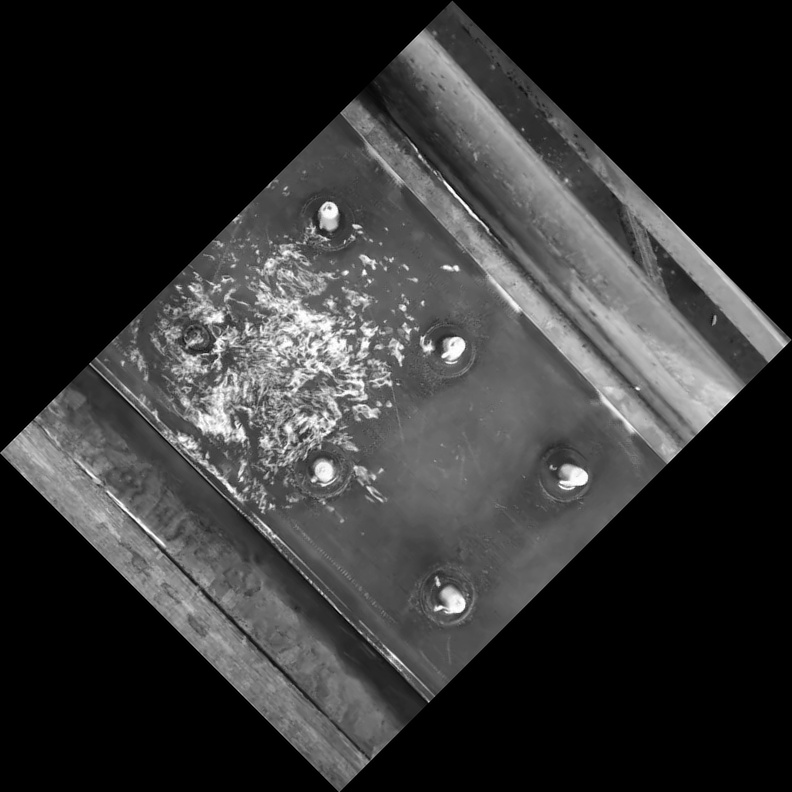
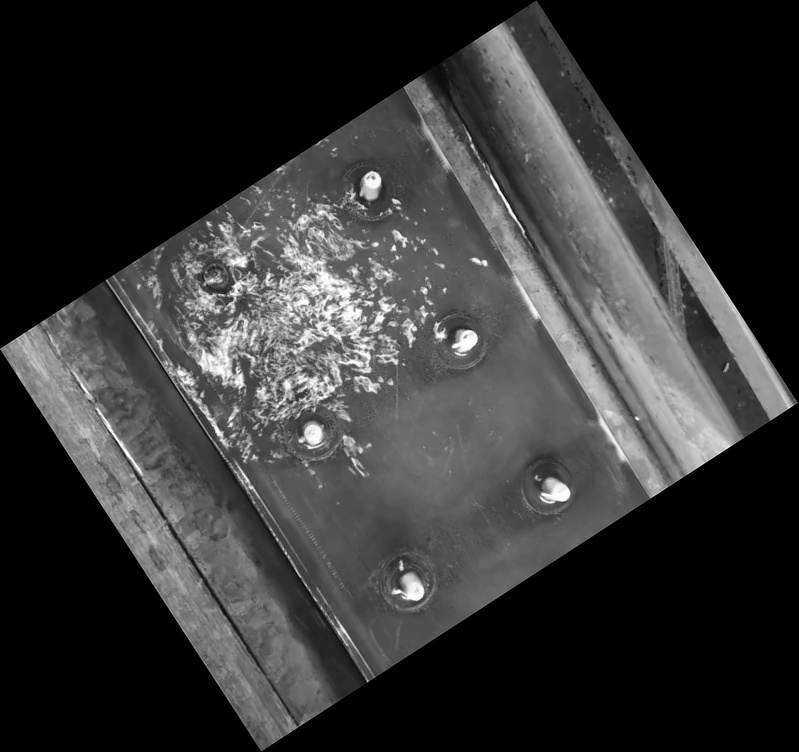
Firt verking version where we can filter out thet detections where  the haar rectangle out of the image

diff --git a/haar_cascade/test_cascade.py b/haar_cascade/test_cascade.py
@@ -2,17 +2,22 @@ from moviepy.editor import *
 import cv2
 import numpy as np
 import json
+import math
+
+from Rectangle import Rectangle
+
+from is_rectangle_on_original_image import is_rectangle_on_original_image
 
 
 # PARAMS
 with open('config/config-local.json') as json_data:
     config = json.load(json_data)
 
-STRECH_PARAMETER = 1
+STRECH_PARAMETER = 0.25
 ROTATION_ANGLE = 15
-MIN_AREA = 15000
+MIN_AREA = 1
 
-CASCADE_FILE = config["dropbox_folder_path"] + '/haar_cascade/data_middle_part_05/cascade.xml'
+CASCADE_FILE = config["dropbox_folder_path"] + '/haar_cascade/data_whole_rotate/cascade.xml'
 VIDEO_FILE = config["dropbox_folder_path"] + '/videos/live_test_2.avi'
 RESULT_IMAGE_FOLDER = config["dropbox_folder_path"] + '/haar_cascade/detected_asparaguses/'
 
@@ -21,6 +26,24 @@ def is_asparagus(w, h, min_area):
         return True
 
     return False
+
+def rotate_about_center(src, angle, scale=1.):
+    w = src.shape[1]
+    h = src.shape[0]
+    rangle = np.deg2rad(angle)  # angle in radians
+    # now calculate new image width and height
+    nw = (abs(np.sin(rangle)*h) + abs(np.cos(rangle)*w))*scale
+    nh = (abs(np.cos(rangle)*h) + abs(np.sin(rangle)*w))*scale
+    # ask OpenCV for the rotation matrix
+    rot_mat = cv2.getRotationMatrix2D((nw*0.5, nh*0.5), angle, scale)
+    # calculate the move from the old center to the new center combined
+    # with the rotation
+    rot_move = np.dot(rot_mat, np.array([(nw-w)*0.5, (nh-h)*0.5,0]))
+    # the move only affects the translation, so update the translation
+    # part of the transform
+    rot_mat[0,2] += rot_move[0]
+    rot_mat[1,2] += rot_move[1]
+    return cv2.warpAffine(src, rot_mat, (int(math.ceil(nw)), int(math.ceil(nh))), flags=cv2.INTER_LANCZOS4)
 
 
 # this is the cascade we just made. Call what you want
@@ -36,30 +59,47 @@ i = 1
 for x in t:
     act_str = '00:00:' + str(x)
 
-
     act_frame_brg = clip.get_frame(act_str)
 
-    act_frame_brg = cv2.resize(act_frame_brg, None, fx=STRECH_PARAMETER, fy=STRECH_PARAMETER, interpolation=cv2.INTER_CUBIC)
+
+    act_frame_brg = cv2.resize(act_frame_brg,
+                               None,
+                               fx=STRECH_PARAMETER,
+                               fy=STRECH_PARAMETER,
+                               interpolation=cv2.INTER_CUBIC)
 
     act_frame_rgb = cv2.cvtColor(act_frame_brg, cv2.COLOR_BGR2RGB)
     act_frame_grey = cv2.cvtColor(act_frame_rgb, cv2.COLOR_RGB2GRAY)
 
     # add this
     # image, reject levels level weights.
-    asparaguses = asparagus_cascade.detectMultiScale(act_frame_grey, 3, 10)
+    for angle in range(-45, 45):
 
-    # add this
-    for (x, y, w, h) in asparaguses:
-        if is_asparagus(w, h, MIN_AREA):
-            cv2.imwrite(RESULT_IMAGE_FOLDER + str(i) + ".jpg", act_frame_rgb[y:y + h, x:x + w, :])
-            cv2.rectangle(act_frame_rgb, (x, y), (x + w, y + h), (255, 255, 0), 2)
-            i += 1
-            print "get one"
+        rotated_act_frame_grey = rotate_about_center(act_frame_grey, angle)
+        ratated_act_frame_rgb = rotate_about_center(act_frame_rgb, angle)
+
+        asparaguses = asparagus_cascade.detectMultiScale(rotated_act_frame_grey, 4, 31)
+
+        # add this
+        for (x, y, w, h) in asparaguses:
+            act_rectangle = Rectangle(x, y, w, h)
+
+            if (is_asparagus(w, h, MIN_AREA) and is_rectangle_on_original_image(rectangle=act_rectangle,
+                                                                               original_image=act_frame_grey,
+                                                                               rotated_image=rotated_act_frame_grey,
+                                                                               angle=angle)):
+
+                cv2.imwrite(RESULT_IMAGE_FOLDER + str(i) + ".jpg", ratated_act_frame_rgb[y:y + h, x:x + w, :])
+                cv2.rectangle(ratated_act_frame_rgb, (x, y), (x + w, y + h), (255, 255, 0), 2)
+                act_rectangle = Rectangle(x, y, w, h)
+                i += 1
+
+                print "get one"
 
 
-    cv2.imshow('img', act_frame_rgb)
-    k = cv2.waitKey(30) & 0xff
-    if k == 27:
-        break
+        cv2.imshow('img', ratated_act_frame_rgb)
+        k = cv2.waitKey(30) & 0xff
+        if k == 27:
+            break
 
 cv2.destroyAllWindows()

diff --git a/haar_cascade/is_rectangle_on_original_image.py b/haar_cascade/is_rectangle_on_original_image.py
@@ -1,0 +1,68 @@
+import numpy as np
+import math
+import cv2
+
+from Rectangle import Rectangle
+
+def is_rectangle_on_original_image(rectangle, original_image, rotated_image, angle):
+    xy_limits = image_borders(original_image)
+
+    for vertex in rectangle.vertices:
+        original_vertex = calulate_original_coordinat_before_rotation(original_image,
+                                                                      rotated_image,
+                                                                      point=vertex,
+                                                                      angle=angle)
+
+
+        if not (xy_limits["x"][0] <= original_vertex[0] and original_vertex[0] <= xy_limits["x"][1]):
+            return False
+
+        if not (xy_limits["y"][0] <= original_vertex[1] and original_vertex[1] <= xy_limits["y"][1]):
+            return False
+
+    return True
+
+
+def image_borders(image):
+    x_min = 0
+    y_min = 0
+
+    x_max = image.shape[1]
+    y_max = image.shape[0]
+
+    return {"x" : [x_min, x_max], "y" : [y_min, y_max]}
+
+
+def calulate_original_coordinat_before_rotation(original_image, rotated_image, point, angle):
+    point_numpy = np.array([[point[0]],[point[1]]])
+
+    w_original = original_image.shape[1]
+    h_original = original_image.shape[0]
+
+    w_rotated = rotated_image.shape[1]
+    h_rotated = rotated_image.shape[0]
+
+    # From top left coorner to centrum of image
+    centrum_vector = np.array([[-w_rotated / 2], [-h_rotated / 2]])
+
+    point_relative_to_centrum = point_numpy + centrum_vector
+
+    # Rotation back
+    theta = np.deg2rad(angle)
+    rotMatrix = np.array([[np.cos(theta), -np.sin(theta)],
+                          [np.sin(theta), np.cos(theta)]])
+    rotated_point_relative_to_centrum = np.dot(rotMatrix, point_relative_to_centrum)
+
+    # Centrum to top left coorner
+    top_left_centrum_point = rotated_point_relative_to_centrum - centrum_vector
+
+    # Compenyation with picture growth
+    w_growth_on_one_side = (w_rotated - w_original) / 2
+    h_growth_on_one_side = (h_rotated - h_original) / 2
+    compensation_vector = np.array([[w_growth_on_one_side], [h_growth_on_one_side]])
+
+    original_point = top_left_centrum_point - compensation_vector
+    original_point_list = original_point.tolist()
+    original_point_list_single_level = [original_point_list[0][0], original_point_list[1][0]]
+
+    return (original_point_list_single_level)

diff --git a/classes/rectangle.py b/classes/rectangle.py
@@ -1,0 +1,16 @@
+class Rectangle:
+    def __init__(self,
+                 top_left_x=0,
+                 top_left_y=0,
+                 width=0,
+                 high=0):
+
+        self.top_left_x = top_left_x
+        self.top_left_y = top_left_y
+        self.width = width
+        self.high = high
+        self.vertices = [[top_left_x, top_left_y],
+                         [top_left_x + width, top_left_y],
+                         [top_left_x, top_left_y + high],
+                         [top_left_x + width, top_left_y + high]]
+

diff --git a/haar_cascade/__init__.py b/haar_cascade/__init__.py
@@ -1,0 +1,1 @@
+import haar_cascade
